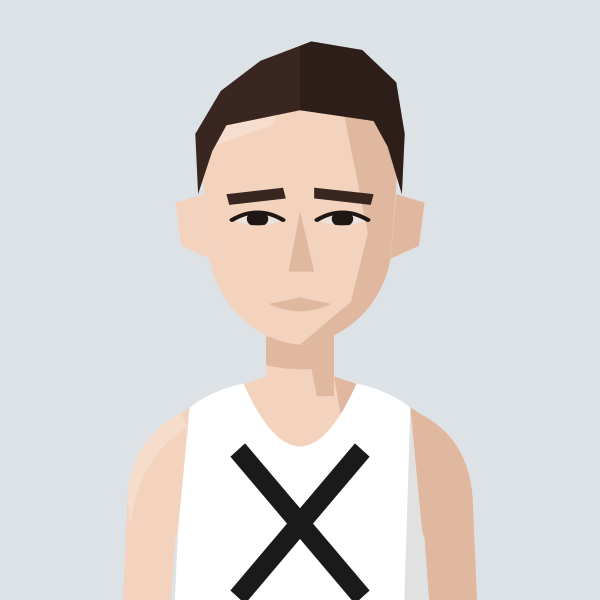
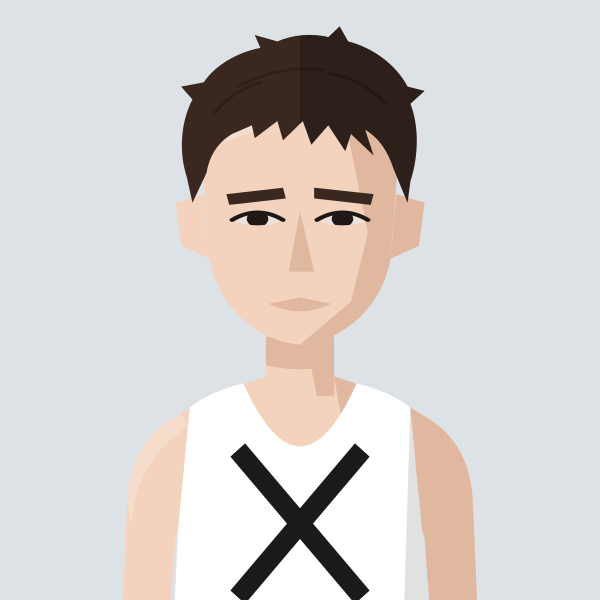
Oliver Fox: medium-length straggly hair (new style)
Claude-Session: https://claude.ai/code/session_01MgmDWhFqnSSnP4iBLKXUZC

Changed region(s): [[0.3, 0.03, 0.72, 0.33]]

diff --git a/files/index.html b/files/index.html
@@ -581,7 +581,7 @@ return m;})();
 const portraitFile=(name,club)=>{const k=normalizeNameForCompare(name||'').replace(/\s*\([^)]*\)$/,'');const a=PORTRAITS[k];if(a&&a.club===club)return a.file;const b=PORTRAITS[k+'@'+club];return b?b.file:null;};
 // Athlete header figure: superstar portrait if we have one, else a grey runner in the club vest, else the plain vest icon
 // Changes whenever any portrait changes (set by tools/build_og.py), so browsers fetch fresh images instead of old cached ones
-const PORTRAIT_V='4177fca7';
+const PORTRAIT_V='6fa24eef';
 const AthletePortrait=({name,club,w,fill,onClick})=>{const[failed,setFailed]=useState(false);const file=portraitFile(name,club);const src=file?`/portraits/athletes/${file}.svg?v=${PORTRAIT_V}`:PORTRAIT_CLUBS.has(club)?`/portraits/clubs/${club.replace(/\//g,'').replace(/&/g,'and')}.svg?v=${PORTRAIT_V}`:null;if(!src||failed)return<div onClick={onClick} className={onClick?'cursor-pointer':''}><ClubShield club={club} size={w}/></div>;const h=Math.round(w*148/126),ih=Math.round(w*1.4);if(fill)return<div onClick={onClick} className="cursor-pointer" style={{alignSelf:'stretch',minHeight:h,aspectRatio:'126 / 148',flexShrink:0,position:'relative',borderRadius:4,overflow:'hidden'}}><img src={src} alt={file?`Portrait of ${name.replace(/\s*\([^)]*\)$/,'')}`:`Runner in ${CLUBS[club]?.name||club} vest`} style={{position:'absolute',top:0,left:0,display:'block',width:'100%',height:'auto'}} onError={()=>setFailed(true)}/></div>;return<div style={{width:w,height:h,borderRadius:4,overflow:'hidden',flexShrink:0}}><img src={src} alt={file?`Portrait of ${name.replace(/\s*\([^)]*\)$/,'')}`:`Runner in ${CLUBS[club]?.name||club} vest`} width={w} height={ih} style={{display:'block',width:w,height:ih}} onError={()=>setFailed(true)}/></div>;};
 const getClubVestSvg=(club)=>{
   const p="M3 0 L6 0 Q7 4 10 5 Q13 4 14 0 L17 0 L17 20 L3 20 Z";

diff --git a/tools/gen_portraits.py b/tools/gen_portraits.py
@@ -130,6 +130,7 @@ HAIR["messyfringe"] = '<path d="M63,102 L59,76 L62,58 L70,46 L79,41 L82,30 L92,3
 HAIR["wavyback"] = '<path d="M64,108 C60,58 80,38 100,38 C121,38 140,58 136,108 L131,88 Q128,72 117,66 Q108,63 100,64 Q90,63 82,67 Q72,73 69,88 Z"/><path d="M64,96 Q56,104 60,114 Q54,122 60,132 Q56,142 64,148 L68,140 Q64,132 67,124 Q63,116 67,108 Z"/><path d="M136,96 Q144,104 140,114 Q146,122 140,132 Q144,142 136,148 L132,140 Q136,132 133,124 Q137,116 133,108 Z"/>'
 HAIR_BACK["wavyback"] = '<path d="M60,90 C58,54 80,36 100,36 C120,36 142,54 140,90 Q148,104 142,118 Q150,132 140,146 Q144,158 132,160 L68,160 Q56,158 60,146 Q50,132 58,118 Q52,104 60,90 Z"/>'
 HAIR["tightbun"] = HAIR["slick"]
+HAIR["straggly"] = '<path d="M62,104 L60,92 C57,80 58,66 62,56 L58,50 L66,48 C70,40 78,34 86,32 L84,26 L92,29 C97,26 104,25 110,27 L114,22 L117,29 C126,32 134,40 138,50 L144,52 L139,58 C142,68 142,82 139,94 L138,104 L133,88 C131,80 128,74 123,70 L126,82 L118,72 L116,80 L110,68 L104,77 L101,66 L94,75 L92,66 L84,74 L83,68 L76,72 C71,76 68,82 67,90 Z"/><g fill="none" stroke="#000" stroke-opacity=".22" stroke-width="1.3" stroke-linecap="round"><path d="M78,50 Q92,40 108,42"/><path d="M110,44 Q122,46 130,58"/><path d="M70,62 Q76,52 86,48"/></g>'
 HAIR["curlyup"] = '<path d="M64,104 L63.0,80.0 Q57.6,74.0 64.1,69.5 Q60.0,62.4 67.2,59.6 Q64.8,51.8 72.3,50.8 Q71.7,42.8 79.0,43.8 Q80.1,36.0 86.9,38.9 Q89.8,31.8 95.5,36.3 Q100.0,30.3 104.5,36.3 Q110.2,31.8 113.1,38.9 Q119.9,36.0 121.0,43.8 Q128.3,42.8 127.7,50.8 Q135.2,51.8 132.8,59.6 Q140.0,62.4 135.9,69.5 Q142.4,74.0 137.0,80.0 L136,104 L131,84 Q128,72 120,66 Q112,62 106,66 Q100,62 94,66 Q88,62 80,66 Q72,72 69,84 Z"/><circle cx="94" cy="30" r="7"/><circle cx="104" cy="25" r="8"/><circle cx="112" cy="32" r="6.5"/><circle cx="101" cy="34" r="7"/>'
 CURLY_WISPS = '<path d="M66,96 Q60,104 64,112 Q58,118 63,124" fill="none" stroke-width="2.2" stroke-linecap="round"/><path d="M134,96 Q140,104 136,112 Q142,118 137,124" fill="none" stroke-width="2.2" stroke-linecap="round"/>'
 HAIR["halfup"] = HAIR["ponytail"] + '<path d="M93,40 C90,30 96,24 102,25 C109,25 112,32 108,40 Z"/>'
@@ -456,7 +457,7 @@ save("tanguy", figure("HHH", skin=1, hair="quiff", hair_colour="dark brown"))
 save("threadgold", figure("BEL", skin=1, hair="crop", hair_colour="#C98A4E", facial="stubble"))
 save("speed", figure("KEN", skin=1, hair="tousled", hair_colour="light brown"))
 save("lethbridge", figure("THH", skin=1, hair="tousled", hair_colour="grey", glasses=True))
-save("fox", figure("THH", skin=1, hair="quiff", hair_colour="dark brown"))
+save("fox", figure("THH", skin=1, hair="straggly", hair_colour="#3A2820"))
 save("woods", figure("HOL", skin=1, hair="tousled", hair_colour="light brown"))
 save("ryan", figure("BEL", skin=1, hair="fringe", hair_colour="dark brown"))
 save("mccolgan", figure("THH", skin=1, hair="shortcurls", hair_colour="light brown"))
